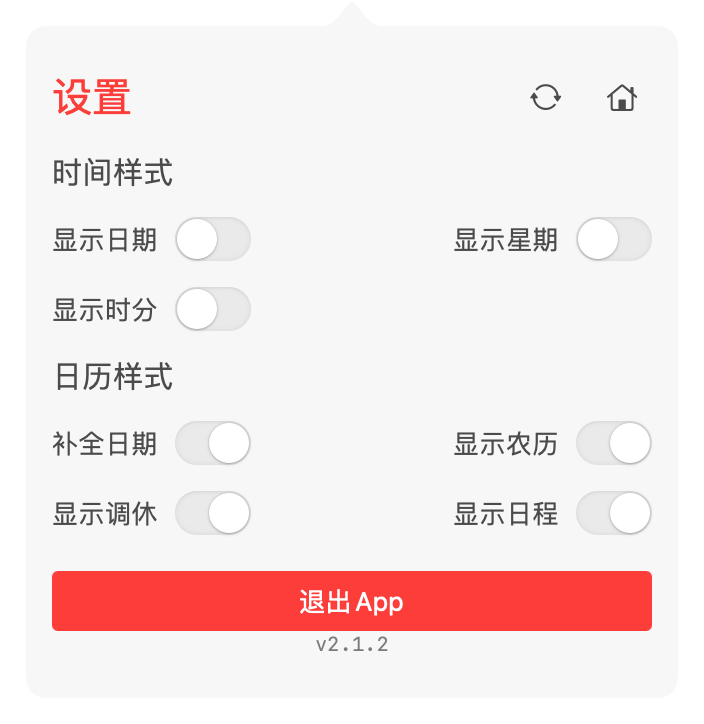
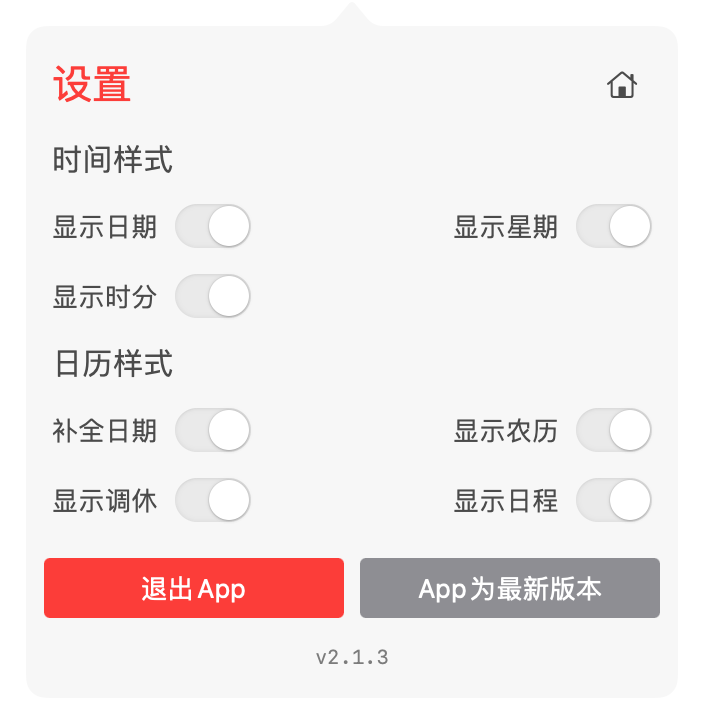
v2.1.3

diff --git a/README.md b/README.md
@@ -1,16 +1,18 @@
 # 这是日历啊
 一款简洁的日历、时间显示工具。
-- [下载地址](https://github.com/ZzzM/LunarCalendar/releases/download/2.1.2/calendar.zip)
+- [下载地址](https://github.com/ZzzM/LunarCalendar/releases/download/2.1.3/calendar.zip)
 - 运行环境：macOS 11.0 或以上
 - 在线更新：需要将解压好的App放至应用程序文件夹
 
 # 记录
 | 版本 |  说明 |
 | ----  | ---- |
+| 2.1.3 | 更新设置界面<br>修复时间同步bug<br>修复日历显示bug<br>修复小组件显示bug<br> |
 | 2.1.2 | 优化暗黑模式下显示效果 |
 | 2.1.1 | 界面调整<br>优化交互 |
 | 2.1.0 | 界面调整<br>优化交互|
 | 2.0.0 | 全新UI<br>更新2021年法定假日<br>支持 macOS Big Sur 小组件|
+
 
 # 预览
 
